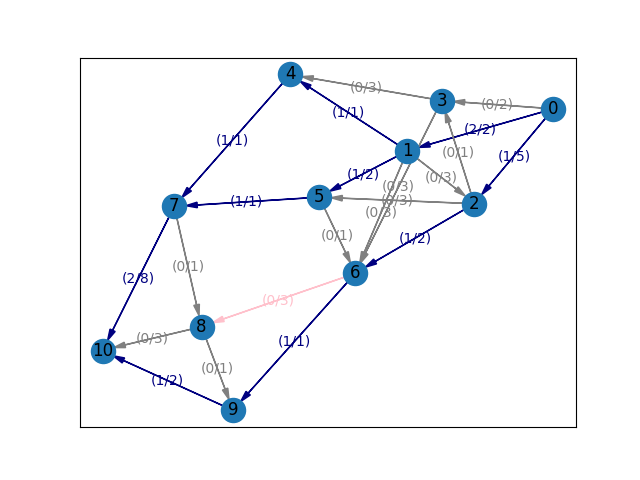
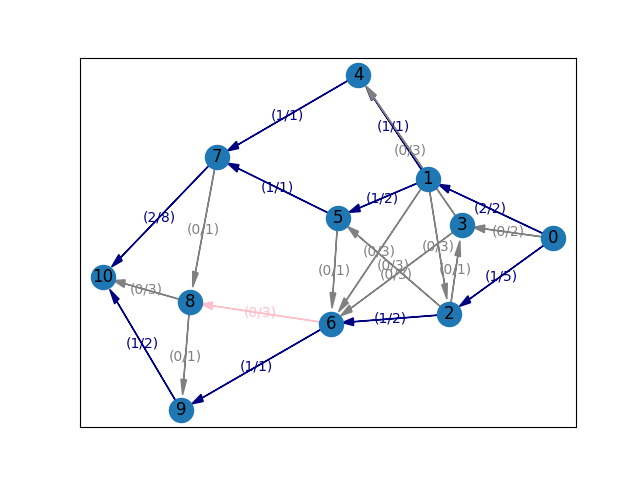
Ajouté Retour-Arrière (ish)
- Ajouté l'algo de retour arrière, mais en utilisant une matrice combinatoire plutôt que de construire un arbre de recherche.

Changed region(s): [[0.125, 0.125, 0.9062, 0.9062], [0.75, 0.5312, 0.8438, 0.5938]]

diff --git a/flux_graph.py b/flux_graph.py
@@ -1,9 +1,16 @@
+# Algorithm and logic:
 from collections import deque
+from itertools import combinations
 import heapq
+
+# Reading the csv file:
 import csv
 import os
+
+# Drawing the png:
 import networkx as nx
 import matplotlib.pyplot as plt
+
 
 class Edge:
 
@@ -46,11 +53,12 @@ class Edge:
         if(ignore_block or not self.is_blocked):
             self.remaining_capacity = self._max_capacity
     
-    def reduce_capacity_to_zero(self):
+    def block(self):
         self.is_blocked = True
         self.remaining_capacity = 0
 
-
+    def unblock(self):
+        self.is_blocked = False
 
 class Node:
 
@@ -80,7 +88,6 @@ class Node:
         return len(self.outgoing_edges_heap) == 0 and len(self.ingoing_edges_heap) > 0
 
    
-   
 class FlowNetwork:
     
     def __init__(self, csvFileName):
@@ -88,7 +95,6 @@ class FlowNetwork:
         self.sink_node = None
         self.nodes = {}
         self.edges = []
-        self._most_clogged_edge = None
         self.num_edges = 0
         self.num_edges_to_remove = 0
         self.flow = 0
@@ -146,14 +152,8 @@ class FlowNetwork:
             for edge in augmenting_path:
                 edge.reduce_capacity(bottleneck_capacity)
                 
-                # Bonus heuristic: 
-                if(self._most_clogged_edge == None):
-                    self._most_clogged_edge = edge
-                    
-                elif(self._candidate_edge.get_flow() < edge.get_flow()):
-                    self._most_clogged_edge = edge
-                
             self.flow += bottleneck_capacity
+        return self.flow
     
 
     def _find_augmenting_path_bfs(self):
@@ -174,13 +174,13 @@ class FlowNetwork:
         return None
 
 
-    def _get_best_edge_to_block_using_brute_force(self):
-        min_flow = 2147483648
+    def _get_best_edge_to_block_using_brute_force(self, k):
+        min_flow = self.flow
         min_edges = []
         self.reset_edge_capacities()
 
         for edge in self.edges:
-            edge.reduce_capacity_to_zero()
+            edge.block()
             self.recalculate_flow()
             
             if(self.flow == 0):
@@ -188,41 +188,97 @@ class FlowNetwork:
                 
             elif(self.flow < min_flow):
                 min_edges = [edge]
-                min_flow = fg.flow
+                min_flow = G.flow
                 
             elif(self.flow == min_flow):
                 min_edges.append(edge)
             
-            edge.is_blocked = False
+            edge.unblock()
             self.reset_edge_capacities()
         
         return (min_flow, min_edges)
     
     
-    
-    def _get_best_edges_to_block_using_backtracking(self, use_heuristics=False):
+    def _get_best_edges_to_block_using_branch_and_bound(self):
         
-        # Noter qu'à l'initialisation, le flow initial est déjà calculé par Ford-Fulkerson et BFS.
-        
-        # On initialise une pile pour stocker les noeuds à explorer dans l'arbre de recherche.
-        # Chaque élément représentera une configuration du FlowNetwork:
-        #   - Les arcs retirés, et le flow maximal associé.
-        #   - Élément initial: aucun arc n'est blocké
-        heap = [([], self.flow)]
-        
+        # Noter qu'à l'initialisation de l'objet FlowNetwork, le flow initial est déjà calculé par Ford-Fulkerson et BFS.
+        min_flow = self.flow
         min_edges = []
-        min_flow = []
         
-        # Tant que la pile n'est pas vide, on prend le prochain tuple de la pile et on calcule le flot maximal 
-        # correspondant à ce noeud en utilisant Ford-Fulkerson.
-        while len(heap) > 0:
-            edges_removed, flow = heapq.heappop(heap)
-            for edge in edges_removed:
-                edge.is_blocked = True
-                
+        # Condition initiale: si le réseau de transport n'a déjà pas de flow, on retourne immédiatement:
+        if(self.flow < 1):
+            return (0, [])
+        
+        # Initialisation d'une matrice des combinaisons possibles d'arcs à retirer 
+        # (max profondeur de k = num_edges_to_remove)
+        edges_with_flow = [edge for edge in self.edges if edge.has_flow()]
+        edge_combinations = combinations(edges_with_flow, self.num_edges_to_remove)
+        
+        for search_tree_branch in edge_combinations:
+            pass
             
+    
+    def get_best_edges_to_block_using_backtracking(self):
         
-        pass
+        # Noter qu'à l'initialisation de l'objet FlowNetwork, le flow initial est déjà calculé par Ford-Fulkerson et BFS.
+        min_flows = [self.flow]
+        min_edges = [[]]
+        
+        # Condition initiale: si le réseau de transport n'a déjà pas de flow, on retourne immédiatement:
+        if(self.flow < 1):
+            print("Attention! Retourné tôt car le flow initial était " + str(self.flow) + " (< 1)")
+            return (0, [])
+        
+        # Initialisation d'une matrice des combinaisons possibles d'arcs à retirer (max profondeur de k = num_edges_to_remove)
+        # Ça nous donne une liste des branches de l'arbre de recherche qu'on utilisera pour Backtracking:
+        edges_with_flow = [edge for edge in self.edges if edge.has_flow()]
+        edge_combinations = combinations(edges_with_flow, self.num_edges_to_remove)
+        
+        # Pour chaque noeud suivant dans l'arbre de recherche, c.a.d. pour chaque arête 
+        # qui pourrait être bloquée, on compare sa valeur (i.e. son flow max) pour continuer
+        # à se déplacer vers un minimum local, qui sera notre solution partielle:
+        for search_tree_branch in edge_combinations:
+            
+            local_minimum_flow = min_flows[0]
+            local_minimum_edges = []
+            
+            for edge in search_tree_branch:
+                
+                # On supprime l'arête et réevalue le flow en utilisant F-F:
+                edge.block()
+                self.recalculate_flow()
+                    
+                # Si le nouveau flow est nul, nous avons trouvé une solution optimale:
+                if(self.flow == 0):
+                    return (0, local_minimum_edges.append(edge))
+                
+                # Si le nouveau flow est le minimum par rapport à cette profondeur de l'arbre.
+                #   - Autrement ça veut dire qu'on avait déjà atteint le minimum local précédemment, alors on backtrackerait 
+                #     dans l'arbre de recherche. Avec notre représentation 'edge_combinations' de cet arbre décisionnel, ça
+                #     signifierait tout simplement de passer à la prochaine combinaison d'arc.
+                if(self.flow < local_minimum_flow):
+                    local_minimum_flow = self.flow
+                    local_minimum_edges.append(edge)
+            
+            # On ajour le minimum local aux solutions candidates:
+            min_flows.append(local_minimum_flow)
+            min_edges.append(local_minimum_edges)
+            
+            # On débloque et reset, pour la prochaine itération/branche:
+            for edge in search_tree_branch:
+                edge.unblock()
+            
+        # Retourner le meilleur minimum local, si aucune solution optimale n'a été trouvé:
+        index_solution = 0
+        for i in range(1, len(min_flows)):
+            if(min_flows[i] < min_flows[index_solution]):
+                index_solution = i
+        return (min_flows[index_solution], min_edges[index_solution])
+            
+                    
+            
+                        
+                
     
     
     
@@ -266,24 +322,23 @@ abspath = os.path.abspath(__file__)
 dname = os.path.dirname(abspath)
 os.chdir(dname)
 
+file_name = "ex3.csv"
+G = FlowNetwork(file_name)
+print("Max initial flow is: " + str(G.flow))
 
-file_name = "ex1.csv"
-fg = FlowNetwork(file_name)
-print("Max initial flow is: " + str(fg.flow))
-
-for i in range(fg.num_edges_to_remove):
+min_flow, min_edges = G.get_best_edges_to_block_using_backtracking()
     
-    min_flow, min_edges = fg._get_best_edge_to_block_using_brute_force()
-    fg.recalculate_flow()
+for edge in min_edges:
+    edge.block()
     
-    if(len(min_edges) == 1):
-        print("Réponse (par force brute): flow de " + str(min_flow) + " en enlevant le Edge allant de " + min_edges[0].node_from.name + " à " + min_edges[0].node_to.name)
-    else:
-        print("Réponse (par force brute) est un flow de " + str(min_flow) + " en enlevant un des Edges suivants: ")
-        for edge in min_edges:
-            print(" -> " + edge.node_from.name + " à " + edge.node_to.name + " (" + str(edge.get_flow()) + "/" + str(edge.get_max_capacity()) + ")")
+G.recalculate_flow()
+G.draw(file_name.replace(".csv", ""))
     
-    min_edges[0].reduce_capacity_to_zero()
-
-fg.recalculate_flow()
-fg.draw(file_name.replace(".csv", ""))
+if(len(min_edges) == 0):
+    print("Réponse trouvée était de supprimer aucun arc.")
+elif(len(min_edges) == 1):
+    print("Réponse est un flow de flow de " + str(min_flow) + " en enlevant l'arc allant de " + min_edges[0].node_from.name + " à " + min_edges[0].node_to.name)
+else:
+    print("Réponse est un flow de " + str(min_flow) + " en enlevant les arcs suivants: ")
+    for edge in min_edges:
+        print(" -> " + edge.node_from.name + " à " + edge.node_to.name + " (" + str(edge.get_flow()) + "/" + str(edge.get_max_capacity()) + ")")
